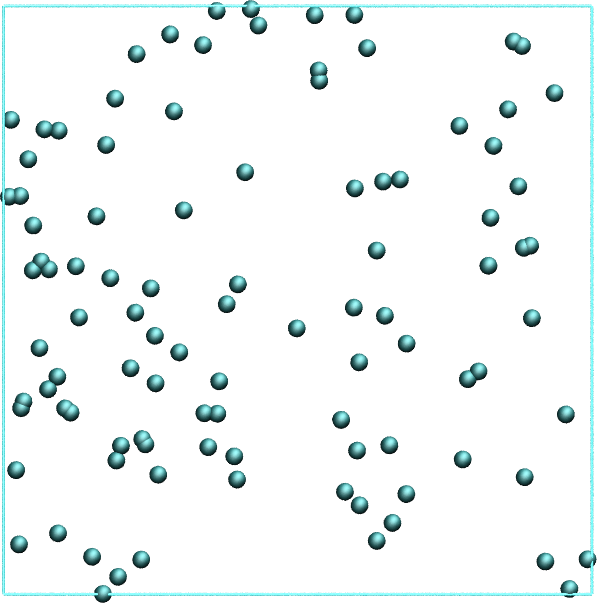
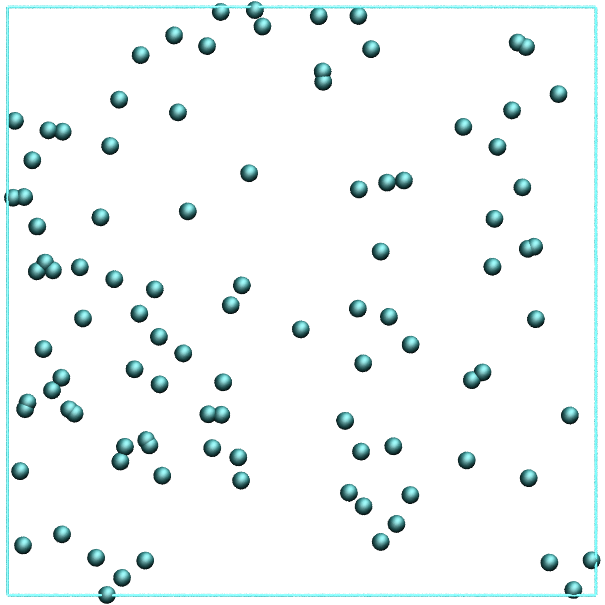
updated data

diff --git a/web_app/lib/data/problem_data.dart b/web_app/lib/data/problem_data.dart
@@ -29,9 +29,9 @@ List<ProblemData> dataList = [
   ProblemData(
       problemNumber: 0,
       sysImageURL: 'https://raw.githubusercontent.com/md-challenge/md-challenge.github.io/master/simulation_data/case_1/system.png',
-      nMols: 500, // Number of Molecules
-      xLen: 50.0, // X-Length of the system
-      yLen: 50.0, // Y-Length of the system
+      nMols: 50, // Number of Atoms
+      xLen: 100.0, // X-Length of the system
+      yLen: 100.0, // Y-Length of the system
       optimalProc: 4,
       optimalXcount: 2,
       optimalYcount: 2,
